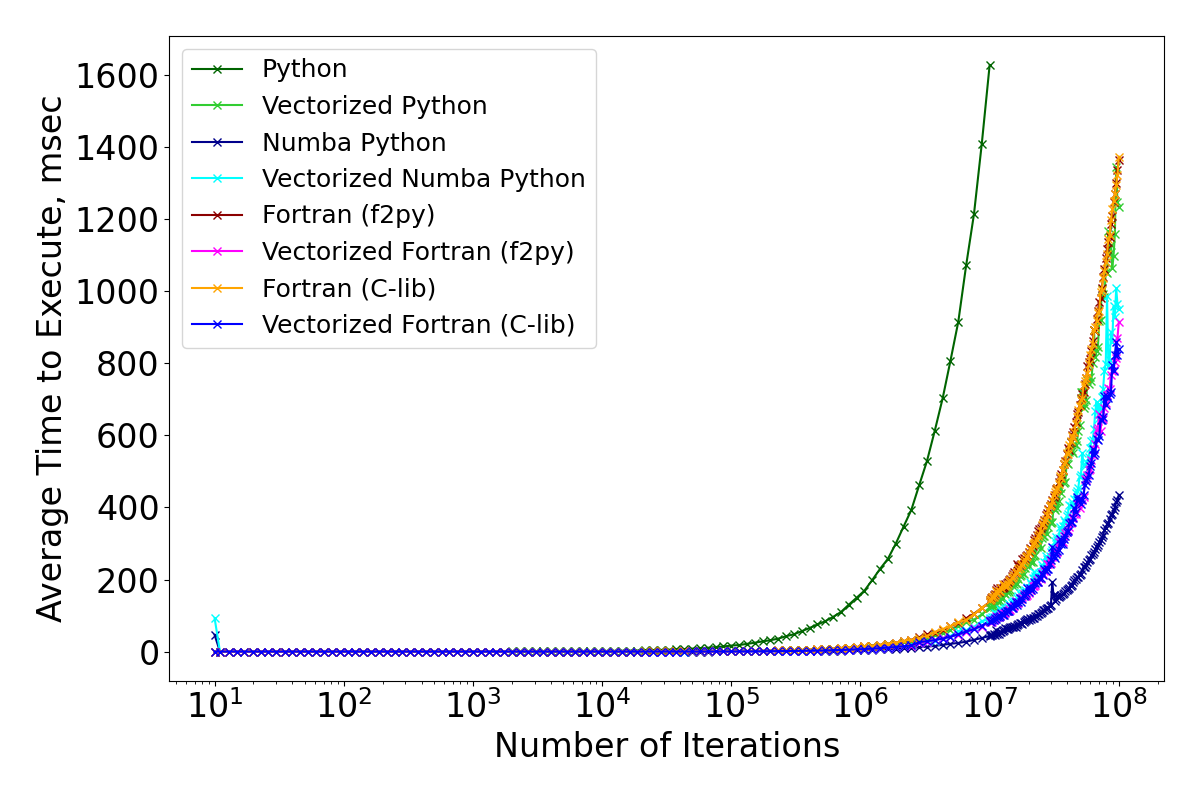
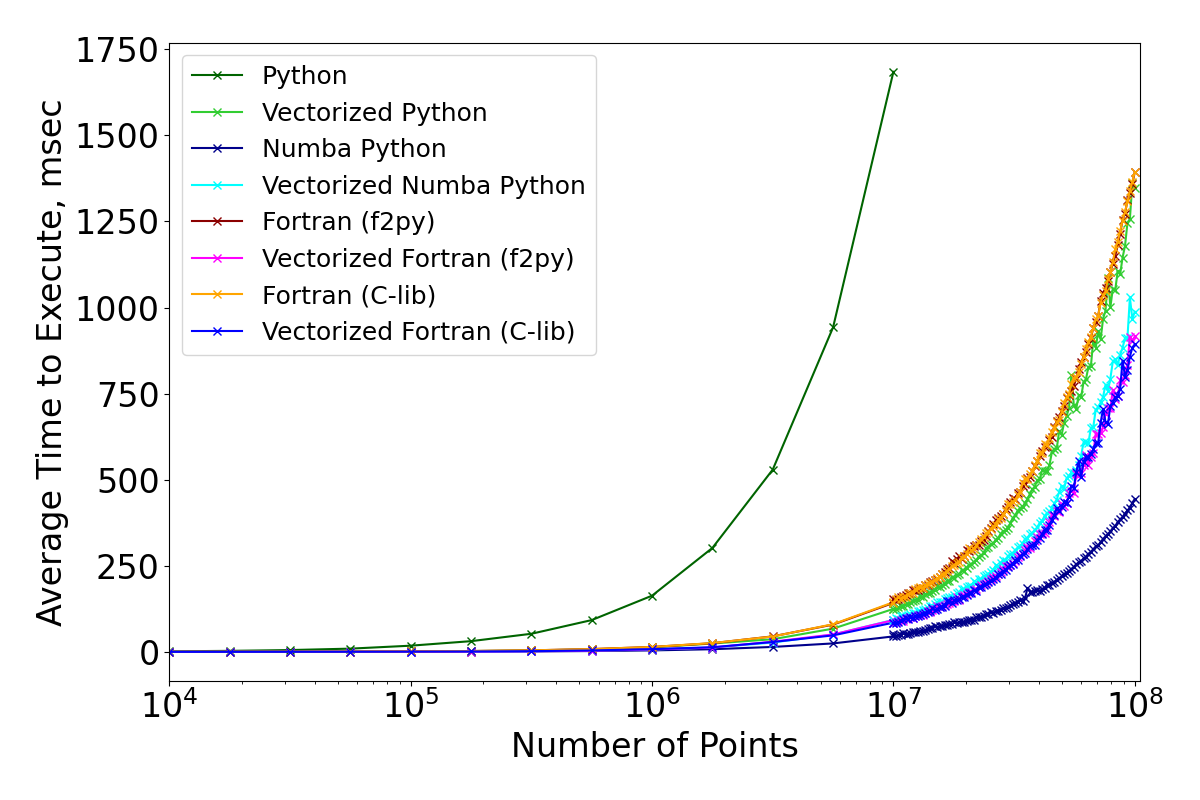
image modification

diff --git a/Python_MC_PI_Calculator_withFort.py b/Python_MC_PI_Calculator_withFort.py
@@ -141,12 +141,12 @@ if __name__ == '__main__':
 
     # taking one value and not averaging
     tm_avg = 5
-    # generate iterations up to 10Emag
+    # generate iterations up to 1Emag
     mag = 7
 
     # generate the points to iterate over
-    iter_arr = np.logspace(1, mag, 100)
-
+    iter_arr = np.logspace(1, mag, 25)
+    
     # set some lists of stuff like labels for plotting, the functions, and colors for plotting
     labels = ['Python', 'Vectorized Python', 'Numba Python', 'Vectorized Numba Python', 'Fortran (f2py)', 'Vectorized Fortran (f2py)', 'Fortran (C-lib)', 'Vectorized Fortran (C-lib)']
     funcs = [est_pi, vec_est_pi, jit_est_pi, jit_vec_est_pi, fpi.dofpi, fpi.vfpi, fpi_cpy.fpi, fpi_cpy.vfpi]
@@ -162,8 +162,8 @@ if __name__ == '__main__':
         ax.plot(time_arr[:, 0], time_arr[:, 1], marker='x', color=color, label=lbl)
 
     # Just the fast ones a little further
-    # New iteration array that extends from 10Emag to 10E(mag+2)
-    iter_arr = np.logspace(mag, mag + 1, 100)
+    # New iteration array that extends from 1Emag to 10E(mag+2)
+    iter_arr = np.logspace(mag, mag + 1, 10)
 
     # set some lists of stuff like labels for plotting, the functions, and colors for plotting
     labels = ['Vectorized Python', 'Numba Python', 'Vectorized Numba Python', 'Fortran (f2py)', 'Vectorized Fortran (f2py)', 'Fortran (C-lib)', 'Vectorized Fortran (C-lib)']
@@ -178,8 +178,10 @@ if __name__ == '__main__':
         ax.plot(time_arr[:, 0], time_arr[:, 1], marker='x', color=color)
 
     # set plot scales, lebels, etc.
+    xlims = ax.get_xlim()
+    ax.set_xlim((10e3, xlims[-1]))
     ax.set_xscale('log')
-    ax.set_xlabel('Number of Iterations')
+    ax.set_xlabel('Number of Points')
     ax.set_ylabel('Average Time to Execute, msec')
     ax.legend(fontsize=18)
     fig.set_size_inches(12,8)
